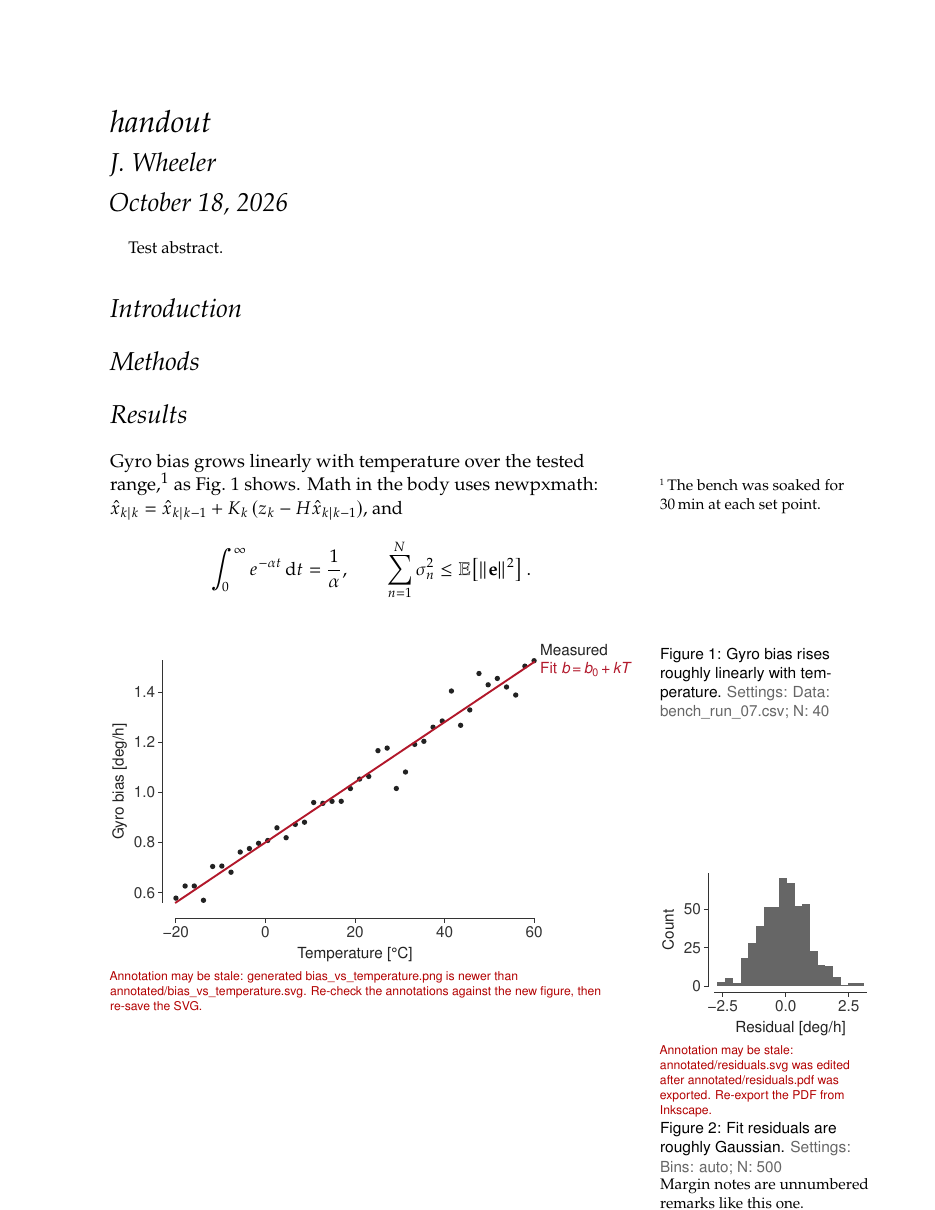
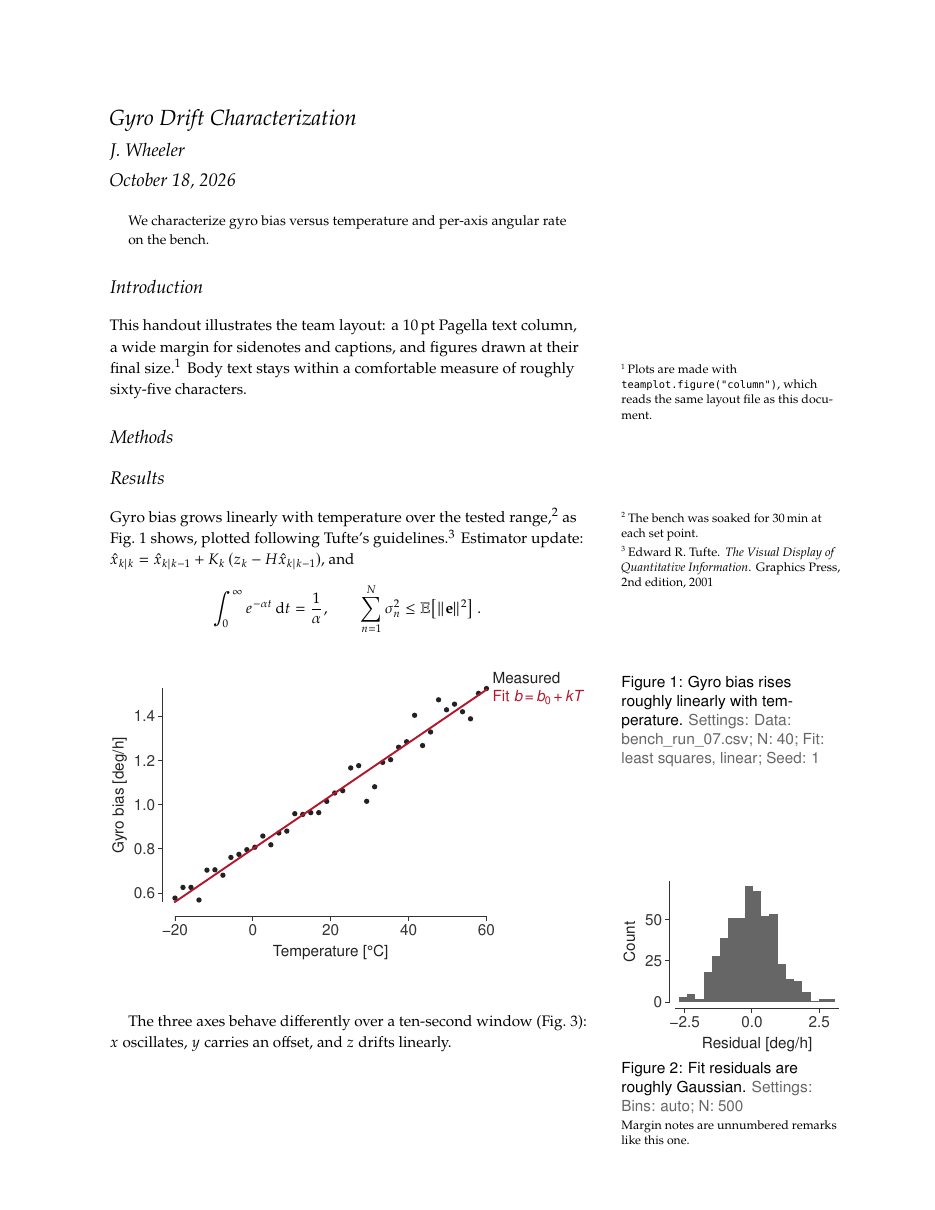
Release 1.1.0: tufte-latex 10 pt body, x/y/z color rule
- Body text uses tufte-latex's native 10 pt size and page geometry
  (26 pc text, 2 pc gap, 12 pc margin); figure widths follow via layout.tex,
  which now accepts TeX units so Python and LaTeX agree to the point
- x/y/z vector components always use tab:red / tab:green / tab:blue
  (teamplot.XYZ_COLORS, teamplot.xyz_color), in plotting.md and AGENTS.md
- \teambibliography hides the References section until the first \cite
- Writing rule for Tufte-style citations; refreshed docs and example images

Claude-Session: https://claude.ai/code/session_01TuVSViD3YWNDPhdCEKERhg

diff --git a/template/standards/teamplot/__init__.py b/template/standards/teamplot/__init__.py
@@ -27,12 +27,26 @@ _LAYOUT = _HERE.parent / "latex" / "layout.tex"
 
 GOLDEN = 0.618  # default height / width
 
+# Vector components always use these colors, in every plot, so x/y/z read the
+# same everywhere (the RGB = XYZ convention used by CAD tools and 3-D viewers).
+XYZ_COLORS = {"x": "tab:red", "y": "tab:green", "z": "tab:blue"}
+
+
+def xyz_color(axis: str) -> str:
+    """Color for a vector component: xyz_color("x") -> "tab:red". Case-insensitive."""
+    return XYZ_COLORS[axis.strip().lower()]
+
 
 # ---- Layout ---------------------------------------------------------------------
 
+_TEX_UNITS_IN = {"in": 1.0, "pt": 1 / 72.27, "pc": 12 / 72.27, "bp": 1 / 72.0,
+                 "cm": 1 / 2.54, "mm": 1 / 25.4}
+
+
 def _read_layout(path: Path = _LAYOUT) -> dict[str, float]:
-    """Parse `\\def\\teamNAME{<x>in}` lines from layout.tex into inches."""
-    vals = {m[1]: float(m[2]) for m in re.finditer(r"\\def\\team(\w+)\{([\d.]+)in\}", path.read_text())}
+    """Parse `\\def\\teamNAME{<number><unit>}` lines from layout.tex into inches."""
+    vals = {m[1]: float(m[2]) * _TEX_UNITS_IN[m[3]] for m in re.finditer(
+        r"\\def\\team(\w+)\{([\d.]+)(in|pt|pc|bp|cm|mm)\}", path.read_text())}
     return {
         "column": vals["textwidth"],
         "margin": vals["marginwidth"],

diff --git a/template/standards/latex/layout.tex b/template/standards/latex/layout.tex
@@ -1,11 +1,12 @@
 % Page layout: SINGLE SOURCE OF TRUTH for column widths.
 % Read by teamtufte.sty (LaTeX) AND by standards/teamplot (Python figure sizes),
 % so a figure made with teamplot.figure("column") is exactly \textwidth wide.
-% Keep the format `\def\teamNAME{<number>in}`. teamplot parses these lines.
+% Keep the format `\def\teamNAME{<number><unit>}` with unit in, pt, pc, bp, cm or mm;
+% teamplot parses these lines (TeX units: 1 in = 72.27 pt, 1 pc = 12 pt).
 %
-% Letter paper (8.5in): left + text + sep + margin + right = 8.5in
-\def\teamleftmargin{1.0in}
-\def\teamtextwidth{4.75in}
-\def\teammarginsep{0.25in}
-\def\teammarginwidth{1.9in}
-% full width = text + sep + margin = 6.9in
+% tufte-latex's native letter-paper geometry for its 10pt body.
+\def\teamleftmargin{1in}
+\def\teamtextwidth{26pc}
+\def\teammarginsep{2pc}
+\def\teammarginwidth{12pc}
+% full width = text + sep + margin = 40pc (6.64 in)

diff --git a/docs-site/conf.py b/docs-site/conf.py
@@ -4,7 +4,7 @@ import datetime
 project = "agent-workspace-template"
 author = "Jonathan Wheeler"
 copyright = f"{datetime.date.today().year}, {author}"
-release = "1.0.0"
+release = "1.1.0"
 
 extensions = [
     "myst_parser",

diff --git a/docs-site/usage/figures.md b/docs-site/usage/figures.md
@@ -62,19 +62,20 @@ treat that warning as an error. In LaTeX, the caption pulls the settings in auto
 `standards/latex/layout.tex` defines the page geometry once:
 
 ```latex
-\def\teamleftmargin{1.0in}
-\def\teamtextwidth{4.75in}
-\def\teammarginsep{0.25in}
-\def\teammarginwidth{1.9in}
+\def\teamleftmargin{1in}
+\def\teamtextwidth{26pc}     % 312 pt, tufte-latex native
+\def\teammarginsep{2pc}
+\def\teammarginwidth{12pc}
 ```
 
-LaTeX uses it to set up the page; `teamplot` parses the same file, so:
+LaTeX uses it to set up the page; `teamplot` parses the same file (converting TeX
+units: 1 in = 72.27 pt, 1 pc = 12 pt), so:
 
 | `teamplot.figure(…)` | Width | LaTeX environment |
 |---|---|---|
-| `"column"` | 4.75 in (= `\textwidth`) | `figure` |
-| `"margin"` | 1.9 in (= `\marginparwidth`) | `marginfigure` |
-| `"full"` | 6.9 in (text + gap + margin) | `figure*` |
+| `"column"` | 26 pc = 312 pt ≈ 4.32 in (= `\textwidth`) | `figure` |
+| `"margin"` | 12 pc = 144 pt ≈ 1.99 in (= `\marginparwidth`) | `marginfigure` |
+| `"full"` | 40 pc = 480 pt ≈ 6.64 in (text + gap + margin) | `figure*` |
 
 Figures are included at **natural size**, so 10 pt text in the plot is 10 pt on the
 page, matching the 10 pt Nimbus Sans captions. Saving uses `bbox="standard"` with
@@ -93,11 +94,40 @@ which `figure()` calls). Highlights:
 - Top and right spines off; left/bottom spines offset 4 pt outward; no grid.
 - Short outward ticks; frame, ticks, and labels in dark gray, not black.
 - Color cycle: near-black, then muted red, blue, green, brown, purple, gray. Use in order.
+- **Exception: x/y/z vector components** always use `tab:red` / `tab:green` / `tab:blue`
+  (see below).
 - No legend frame; prefer `direct_labels()`.
 - PDF/PS fonts embedded as Type 42 (searchable and editable); SVG text kept as text.
 
 To change the style for everyone, edit the matplotlibrc in the template and release;
 see {doc}`../maintenance`.
+
+## x/y/z components
+
+Any time a plot shows components of a vector (position, velocity, acceleration,
+angular rate, magnetic field, frame axes), color them by axis, not by the cycle:
+
+```python
+for i, axis in enumerate("xyz"):
+    ax.plot(t, gyro[:, i], color=teamplot.xyz_color(axis), label=axis)
+teamplot.direct_labels(ax)
+```
+
+| Component | Color |
+|---|---|
+| x | `tab:red` |
+| y | `tab:green` |
+| z | `tab:blue` |
+
+```{figure} ../_static/img/angular_rate_xyz.png
+:width: 600px
+
+Per-axis angular rate: x red, y green, z blue, labeled directly.
+```
+
+This matches the RGB = XYZ convention of CAD tools and 3-D viewers, and means a
+reader never has to check a legend to know which trace is z. The mapping lives in
+`teamplot.XYZ_COLORS`.
 
 ## Helper reference
 
@@ -118,6 +148,9 @@ see {doc}`../maintenance`.
 
 `save(fig, name, settings=None, outdir="figures", formats=("pdf","png","svg"))`
 : Save all formats and the settings files.
+
+`xyz_color(axis)`, `XYZ_COLORS`
+: `"tab:red"`, `"tab:green"`, `"tab:blue"` for `"x"`, `"y"`, `"z"`.
 
 `settings_text(settings)`
 : `"Key: value; …"` for notebook/Markdown captions.

diff --git a/docs-site/usage/latex.md b/docs-site/usage/latex.md
@@ -15,9 +15,9 @@ First page of a `tufte-handout` workspace.
 
 | Element | Font | Size |
 |---|---|---|
-| Body | Pagella (Palatino clone, `newpxtext`) | 12 pt / 15.5 pt leading |
-| Math | `newpxmath` (matched to Pagella) | 12 pt |
-| Sidenotes, margin notes | Pagella | 10 pt |
+| Body | Pagella (Palatino clone, `newpxtext`) | 10 pt / 14 pt leading (tufte-latex native) |
+| Math | `newpxmath` (matched to Pagella) | 10 pt |
+| Sidenotes, margin notes | Pagella | 8 pt (tufte default) |
 | Captions | Nimbus Sans (`helvet`) | 10 pt |
 | Plot and diagram text | Nimbus Sans | 10 pt |
 | Code | Bera Mono, scaled 0.85 | |
@@ -28,20 +28,22 @@ Pagella Math, under LuaLaTeX/XeLaTeX. Nimbus Sans is a free, metric-compatible
 Helvetica that installs easily on Windows, and both fonts come from URW, so they
 sit well together.
 
-tufte-latex only supports a 10 pt body, so `teamtufte.sty` redefines the size
-commands for 12 pt and widens the text block to keep line lengths comfortable.
+The body uses tufte-latex's native 10 pt size and page geometry, so everything
+else in the class (margin notes, running heads, full-width figures) behaves as its
+authors designed. Captions are set in 10 pt Nimbus Sans so they match plot text.
 
 ## Layout
 
-Letter paper: 1 in left margin, 4.75 in text block, 0.25 in gap, 1.9 in margin column
-(defined in `standards/latex/layout.tex`, shared with `teamplot`).
+Letter paper, tufte-latex's native geometry: 1 in left margin, 26 pc (312 pt) text
+block, 2 pc gap, 12 pc (144 pt) margin column. Defined in
+`standards/latex/layout.tex`, shared with `teamplot`.
 
 ## Writing in the Tufte style
 
 ```latex
 Main argument goes here.\sidenote{Numbered aside, set in the margin.}
 \marginnote{Unnumbered remark in the margin.}
-Results agree with prior work~\cite{smith2024}.   % citations render in the margin
+Results agree with prior work.\cite{smith2024}   % a numbered sidenote, after punctuation
 ```
 
 | Need | Use | `teamplot.figure(...)` |
@@ -53,6 +55,7 @@ Results agree with prior work~\cite{smith2024}.   % citations render in the marg
 | Units | `\SI{30}{\minute}`, `\si{\degree\celsius}` | |
 | Cross-reference | `\cref{fig:bias}` → "Fig. 1" | |
 | Placeholder | `\todo{cite}` → red margin note | |
+| Bibliography | `\teambibliography{references}` (already in `main.tex`) | hidden until the first `\cite` |
 
 Always include figures with `\teamfig{name}` and put settings in the caption with
 `\figsettingsof{name}`:

diff --git a/CHANGELOG.md b/CHANGELOG.md
@@ -13,6 +13,20 @@ Each release is a git tag (`v1.0.0`), which is what `copier update` pulls.
 
 ## [Unreleased]
 
+## [1.1.0] - 2026-10-18
+### Changed
+- Body text is now tufte-latex's native 10 pt (was a 12 pt override), and the page
+  layout is back to tufte's native geometry: 26 pc text, 2 pc gap, 12 pc margin.
+  `layout.tex` now accepts TeX units (in, pt, pc, bp, cm, mm) so widths match exactly.
+  Figure widths follow automatically; **regenerate existing figures** after updating.
+- Sidenotes and margin notes use tufte's default size again. Captions stay 10 pt Nimbus Sans.
+
+### Added
+- x/y/z color rule: x = `tab:red`, y = `tab:green`, z = `tab:blue` for any vector
+  components (`teamplot.XYZ_COLORS`, `teamplot.xyz_color()`), in the plotting
+  standard and `AGENTS.md`.
+- `\teambibliography{}`: the References section stays hidden until the first `\cite`.
+
 ## [1.0.0] - 2026-10-18
 ### Added
 - Copier template with three variants: `investigation` (Jupyter), `docs` (Markdown
@@ -33,5 +47,6 @@ Each release is a git tag (`v1.0.0`), which is what `copier update` pulls.
   time and in `scripts/check_figures.py`.
 - Sphinx documentation site published to GitHub Pages.
 
-[Unreleased]: https://github.com/jondoesntgit/agent-workspace-template/compare/v1.0.0...HEAD
+[Unreleased]: https://github.com/jondoesntgit/agent-workspace-template/compare/v1.1.0...HEAD
+[1.1.0]: https://github.com/jondoesntgit/agent-workspace-template/compare/v1.0.0...v1.1.0
 [1.0.0]: https://github.com/jondoesntgit/agent-workspace-template/releases/tag/v1.0.0

diff --git a/template/standards/plotting.md b/template/standards/plotting.md
@@ -83,6 +83,11 @@ let a human update it. Don't regenerate an annotated figure unless the task need
   whenever there are ≤ 4 series.
 - Use the color cycle in order: near-black first, then muted accents. Avoid
   ad-hoc colors, 3-D effects, shadows, and decorative fills.
+- **x/y/z data always uses `tab:red` for x, `tab:green` for y, `tab:blue` for z**
+  (`teamplot.XYZ_COLORS`, or `teamplot.xyz_color("x")`). This applies to any vector
+  components: position, velocity, acceleration, angular rate, magnetic field, axes
+  of a coordinate frame. It overrides the color cycle so components read the same
+  in every figure.
 - Every axis has a label with units in brackets, `Time [s]` (`teamplot.label`).
 - Show uncertainty (error bars or light shaded bands) whenever it's known.
 - Filenames: lowercase snake_case describing the content (`bias_vs_temperature`).
@@ -90,8 +95,8 @@ let a human update it. Don't regenerate an annotated figure unless the task need
 ## Typography
 | Element | Font | Size |
 |---|---|---|
-| Body text (LaTeX) | Pagella (Palatino) + newpxmath | 12 pt |
-| Sidenotes, margin notes | Pagella | 10 pt |
+| Body text (LaTeX) | Pagella (Palatino) + newpxmath | 10 pt (tufte-latex native) |
+| Sidenotes, margin notes | Pagella | 8 pt (tufte default) |
 | Captions | Nimbus Sans | 10 pt |
 | All text inside plots, incl. math | Nimbus Sans | 10 pt |
 

diff --git a/template/standards/writing.md b/template/standards/writing.md
@@ -9,6 +9,8 @@ Applies to notebook markdown, docs, and papers. Replace with your team's convent
   notice **and** lists the settings that produced it (see `plotting.md`).
 - In LaTeX, use sidenotes (`\sidenote{}`) for asides and citations, and margin notes
   (`\marginnote{}`) for unnumbered remarks. Keep the main text column for the argument.
+- Citations render as margin sidenotes, so put `\cite{}` after the punctuation that ends
+  the clause (`…prior work.\cite{key}`), never as a noun in the sentence ("see~\cite{key}").
 - Don't claim more than the data shows; state assumptions and limitations explicitly.
 - Cite sources (Confluence page titles, papers, ticket keys); never invent a citation.
 - Mark anything unresolved as an open question rather than guessing.

diff --git a/README.md b/README.md
@@ -40,8 +40,9 @@ notebooks/ | docs/ | paper/
 
 ## House style at a glance
 
-- Body: Pagella (Palatino) 12 pt with newpxmath; sidenotes 10 pt; captions and all
-  plot/diagram text: Nimbus Sans 10 pt.
+- Body: Pagella (Palatino) 10 pt (tufte-latex native) with newpxmath; captions and
+  all plot/diagram text: Nimbus Sans 10 pt.
+- Vector components: x = `tab:red`, y = `tab:green`, z = `tab:blue`, always.
 - Figures are drawn at the exact LaTeX column width (`standards/latex/layout.tex`
   is read by both LaTeX and Python) and included at natural size.
 - Tufte-style plots: no top/right spines, no grid, direct labels, muted palette.

diff --git a/docs-site/maintenance.md b/docs-site/maintenance.md
@@ -46,8 +46,8 @@ probably belongs in a `standards/*.md` file that `AGENTS.md` points to.
 
 ### Changing the page layout
 
-`layout.tex` must keep the format `\def\teamNAME{<number>in}` because `teamplot`
-parses it with a regex. Existing figures won't resize themselves: projects must
+`layout.tex` must keep the format `\def\teamNAME{<number><unit>}` (unit `in`, `pt`,
+`pc`, `bp`, `cm`, or `mm`) because `teamplot` parses it with a regex. Existing figures won't resize themselves: projects must
 regenerate figures after updating, so treat a layout change as a **minor** release and say
 so in the changelog.
 

diff --git a/docs-site/troubleshooting.md b/docs-site/troubleshooting.md
@@ -58,6 +58,9 @@ Install the missing packages: MiKTeX does it on demand; on TeX Live use
 Working as intended; see {doc}`usage/annotations`. Update the annotated SVG and
 re-export, or raise `\teamfigtolerance`.
 
+**There's no References section.**
+`\teambibliography` hides it until the document cites something. Add a `\cite{}`.
+
 **`latexmk` fails on a document with no citations.**
 Make sure the workspace's `paper/.latexmkrc` is present; it tolerates BibTeX's
 "no \citation commands" error.

diff --git a/template/standards/README.md b/template/standards/README.md
@@ -7,5 +7,5 @@ project picks up the change.
 - `plotting.md`: plotting conventions, typography, reproducibility rule
 - `writing.md`: prose conventions
 - `teamplot/`: matplotlib helpers + `matplotlibrc` (the enforcement)
-- `latex/teamtufte.sty`: Tufte layout, Pagella 12 pt body, Nimbus Sans captions
+- `latex/teamtufte.sty`: Tufte layout, Pagella 10 pt body, Nimbus Sans captions
 - `latex/layout.tex`: page/column widths, read by both LaTeX and `teamplot`
